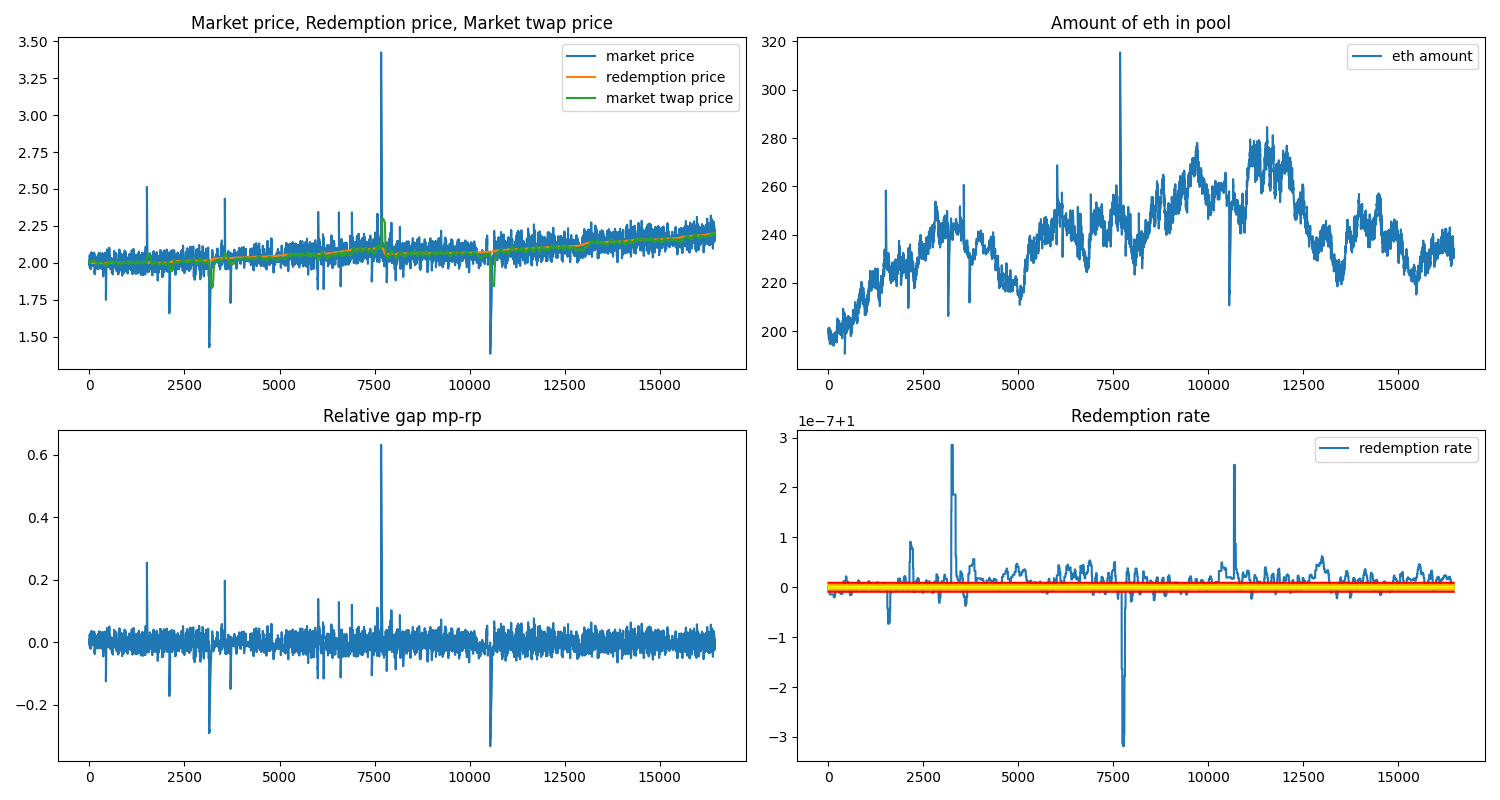
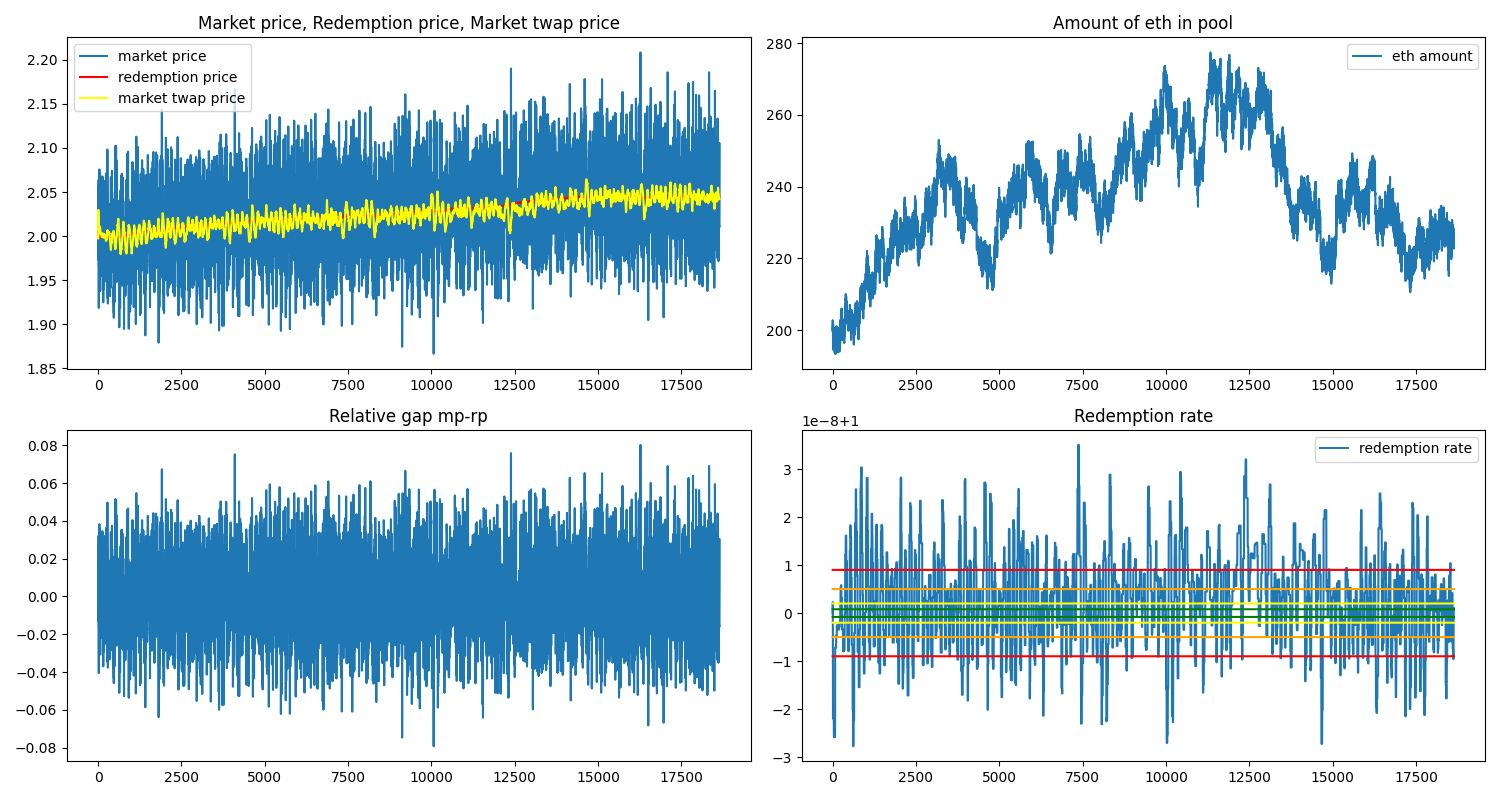
add minor changes

diff --git a/simulations/utils/constants.py b/simulations/utils/constants.py
@@ -4,7 +4,7 @@ ONE_ETH = 500
 class PRICE_TRADER:
     NUM = 200
 
-    ETH_AMOUNT = 1
+    ETH_AMOUNT = 2
     NOI_AMOUNT = ETH_AMOUNT * ONE_ETH
 
     #percentage of traders resource when trading
@@ -13,14 +13,14 @@ class PRICE_TRADER:
     SAFE = 1 - MODERATE - RISKY
 
     # relative difference between redemption price and market price when trader is activated
-    BOUND_HIGH = 0.3
+    BOUND_HIGH = 0.5
     BOUND_MID = 0.2
     BOUND_LOW = 1 - BOUND_HIGH - BOUND_MID
 
 class RATE_TRADER:
     NUM = 200
 
-    ETH_AMOUNT = 1
+    ETH_AMOUNT = 2
     NOI_AMOUNT = ETH_AMOUNT * ONE_ETH
 
     #percentage of traders resource when trading
@@ -36,7 +36,7 @@ class RATE_TRADER:
     RR_LOW = 1 - RR_HIGH - RR_MID
 
 class LEVERAGER:
-    NUM = 200
+    NUM = 100
 
     ETH_AMOUNT = 4
 
@@ -67,7 +67,7 @@ class LEVERAGER:
 class SAFE_OWNER:
     NUM = 200
 
-    ETH_AMOUNT = 5
+    ETH_AMOUNT = 4
 
     RISKY = 0.2
     MODERATE = 0.3
@@ -107,7 +107,7 @@ class WHALE_INSTANT_PRICE_SETTER:
 class WHALE_INSTANT_RATE_SETTER:
     NUM = 0
 
-    ETH_AMOUNT = 45
+    ETH_AMOUNT = 30
     NOI_AMOUNT = ETH_AMOUNT * ONE_ETH
 
     # relative difference between redemption price and market price when whale is activated
@@ -132,7 +132,7 @@ class NOI_TRUSTER:
     BOUND_LOW = 1 - BOUND_HIGH - BOUND_MID
 
 class RANDOM_TRADER:
-    NUM = 0
+    NUM = 300
 
     ETH_AMOUNT = 2
     NOI_AMOUNT = ETH_AMOUNT * ONE_ETH

diff --git a/simulations/classes/graph/a_graph.py b/simulations/classes/graph/a_graph.py
@@ -35,14 +35,14 @@ class Graph:
     def plotGraph1(self, filename, ext_data: ExtData, graph_name):
         figure, axis = plt.subplots(2, 2, figsize=(15,8))
         axis[0, 0].plot(self.m_prices)
-        axis[0,0].plot(self.r_prices)
+        axis[0,0].plot(self.r_prices, color='red')
         if graph_name == 'timestamp_graph':
-            axis[0,0].plot(ext_data.cpi_value)
+            axis[0,0].plot(ext_data.cpi_value, color='yellow')
             axis[0,0].legend(['market price', 'redemption price', 'cpi'])
             axis[0, 0].set_title("Market price, Redemption price, Inflation value")
         
         else:
-            axis[0,0].plot(self.market_twap_prices)
+            axis[0,0].plot(self.market_twap_prices, color='yellow')
             axis[0,0].legend(['market price', 'redemption price', 'market twap price'])
             axis[0, 0].set_title("Market price, Redemption price, Market twap price")
         

diff --git a/simulations/utils/generate_data/generate_cpi_value.py b/simulations/utils/generate_data/generate_cpi_value.py
@@ -3,14 +3,20 @@ import matplotlib.pyplot as plt
 import csv
 
 time = np.arange(1000)
+LEN = 1000
+DELTA_LEN = 50
 
 def CPI_value():
-    delta = np.random.random(1000)*0.00006
+    delta = np.random.random(DELTA_LEN)*0.00010 - 0.000025
+    new_delta = []
+    for i in range(len(delta)):
+        for _ in range(int(LEN / DELTA_LEN)):
+            new_delta.append(delta[i])
     init = 2
     out = np.zeros(1000)
-    out[0] = init + delta[0]
+    out[0] = init + new_delta[0]
     for i in range(1, 1000):
-        out[i] = out[i-1] * (1+delta[i])
+        out[i] = out[i-1] * (1+new_delta[i])
     return out
 
 if __name__ == "__main__":

diff --git a/simulations/controllers/fuzzy_module.py b/simulations/controllers/fuzzy_module.py
@@ -11,11 +11,11 @@ def calculate_rp_and_rr(market_twap, redemption_price, accumulated_leak, ext_dat
     w_cpi = 0
     if err_stable_perc > 0.1:
         w_stable, w_cpi = 1, 0
-    elif err_stable_perc > 0.5:
+    elif err_stable_perc > 0.05:
         w_stable, w_cpi = 0.95, 0.05
-    elif err_stable_perc > 0.4:
+    elif err_stable_perc > 0.04:
         w_stable, w_cpi = 0.9, 0.1
-    elif err_stable_perc > 0.3:
+    elif err_stable_perc > 0.03:
         w_stable, w_cpi = 0.85, 0.15
     else:
         w_stable, w_cpi = 0.8, 0.2
